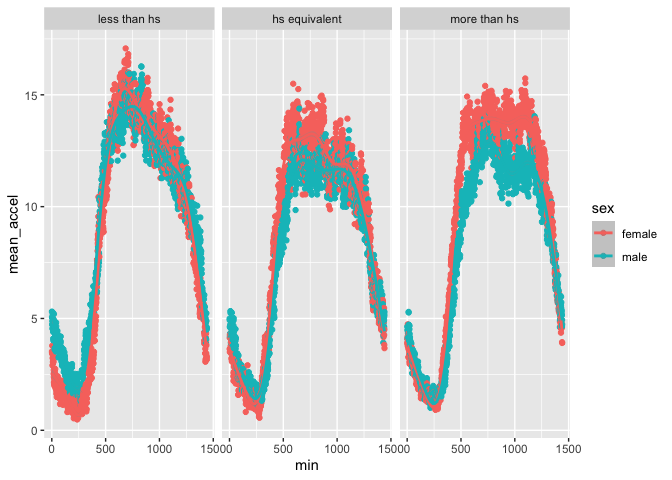
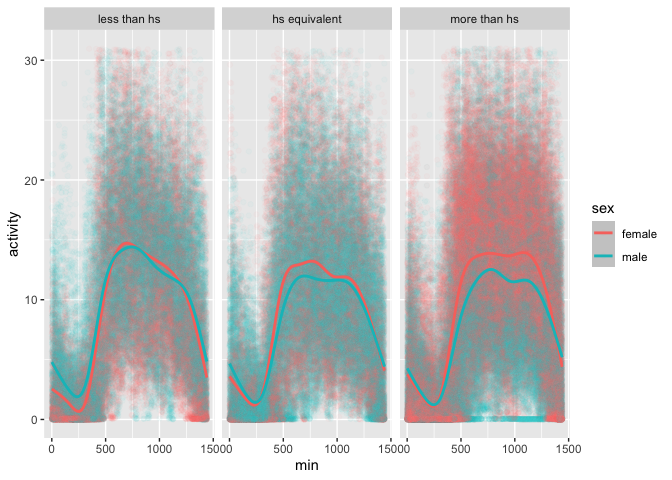
Updated question 2.

diff --git a/p8105_hw3_jsm2298.md b/p8105_hw3_jsm2298.md
@@ -61,7 +61,7 @@ nhanes_accel_df = nhanes_accel_df |>
   janitor::clean_names() |> 
   pivot_longer(contains("min"),
                names_to = "min",
-               values_to = "accel",
+               values_to = "activity",
                names_prefix = "min") |> 
   mutate(min = as.numeric(min))
 ```
@@ -101,7 +101,7 @@ nhanes_df = nhanes_accel_df |>
 ``` r
 ## Create the table:
 table_1 = nhanes_df |> 
-  pivot_wider(names_from = min, values_from = accel) |>
+  pivot_wider(names_from = min, values_from = activity) |>
   group_by(education, sex) |> 
   summarize(n = n())
 ```
@@ -133,7 +133,7 @@ print(table_1)
 ``` r
 ## Create the plot:
 nhanes_df |> 
-  pivot_wider(names_from = min, values_from = accel) |>
+  pivot_wider(names_from = min, values_from = activity) |>
   ggplot(aes(x = age, color = sex, fill = sex)) +
   geom_density(alpha = 0.4) +
   facet_wrap(. ~ education)
@@ -160,13 +160,13 @@ higher density of younger participants across both sexes.
 ``` r
 nhanes_df |> 
   group_by(seqn, age, sex, education) |> 
-  summarize(mean_accel = mean(accel)) |> 
-  ggplot(aes(x = age, y = mean_accel, color = sex)) +
+  summarize(total_activity = sum(activity)) |> 
+  ggplot(aes(x = age, y = total_activity, color = sex)) +
   geom_point() + 
   geom_smooth(method = "lm", se = F) +
   facet_wrap(. ~ education) +
-  labs(x = "Age", y = "Mean Acceleration (Per Subject)",
-       title = "Age vs Mean Activity Between Subjects",
+  labs(x = "Age", y = "Total Activity (Sum Per Subject)",
+       title = "Age vs Total Activity Between Subjects",
        subtitle = "Seperated by Education Level and Sex") 
 ```
 
@@ -193,52 +193,32 @@ between men and women seen in the higher education group.
 ``` r
 ## Plot data with points:
 nhanes_df |> 
-  group_by(min, sex, education) |> 
-  summarize(mean_accel = mean(accel)) |> 
-  ggplot(aes(x = min, y = mean_accel, color = sex)) +
-  geom_point() +
+  filter(
+    activity >= quantile(activity, 0.25, na.rm = TRUE) - 1.5 * IQR(activity, na.rm = TRUE) & # Filter data to remove extreme outliers
+    activity <= quantile(activity, 0.75, na.rm = TRUE) + 1.5 * IQR(activity, na.rm = TRUE)
+  ) |> 
+  ggplot(aes(x = min, y = activity, color = sex)) +
+  geom_point(alpha = 0.03) +
   geom_smooth() +
   facet_wrap(~ education, nrow = 1)
 ```
 
-    ## `summarise()` has regrouped the output.
     ## `geom_smooth()` using method = 'gam' and formula = 'y ~ s(x, bs = "cs")'
-    ## ℹ Summaries were computed grouped by min, sex, and education.
-    ## ℹ Output is grouped by min and sex.
-    ## ℹ Use `summarise(.groups = "drop_last")` to silence this message.
-    ## ℹ Use `summarise(.by = c(min, sex, education))` for per-operation grouping
-    ##   (`?dplyr::dplyr_by`) instead.
 
 ![](p8105_hw3_jsm2298_files/figure-gfm/unnamed-chunk-8-1.png)<!-- -->
 
-``` r
-## Plot only smoothed lines:
-nhanes_df |> 
-  ggplot(aes(x = min, y = accel, color = sex)) +
-  geom_smooth() +
-  facet_wrap(~ education, nrow = 1)
-```
-
-    ## `geom_smooth()` using method = 'gam' and formula = 'y ~ s(x, bs = "cs")'
-
-![](p8105_hw3_jsm2298_files/figure-gfm/unnamed-chunk-8-2.png)<!-- -->
-
-The curves show similar relationships across each education group with
-slight differences. We see across sex and education, that activity peaks
-in the waking hours of the day time and drops into the evening. Those
-with less than a high school degree seem to be more active earlier in
-the day with steeper decreases as the day progresses, while those with a
-high school diploma or above seem to have a more constant activity
-pattern during the day and then a sharper decline in the evening. The
-major sex differences are found in the group with a high school degree
-or above, as male participants seem to show less activity during the
-day.
-
-I decided to interpret the question as asking for mean activity across
-each minute for each group. Otherwise, the points are far too
-overwhelming to gather meaningful data from the plot. I also included a
-plot with only the fitted spline equations to the original data to see
-where the underlying trends of activity show.
+I decided to remove outliers from the data to improve the readability of
+the plot. When outliers were included, the plot became very hard to
+interpret.The curves show similar relationships across each education
+group with slight differences. We see across sex and education, that
+activity peaks in the waking hours of the day time and drops into the
+evening. Those with less than a high school degree seem to be more
+active earlier in the day with steeper decreases as the day progresses,
+while those with a high school diploma or above seem to have a more
+constant activity pattern during the day and then a sharper decline in
+the evening. The major sex differences are found in the group with a
+high school degree or above, as male participants seem to show less
+activity during the day.
 
 ## Problem 3
 
